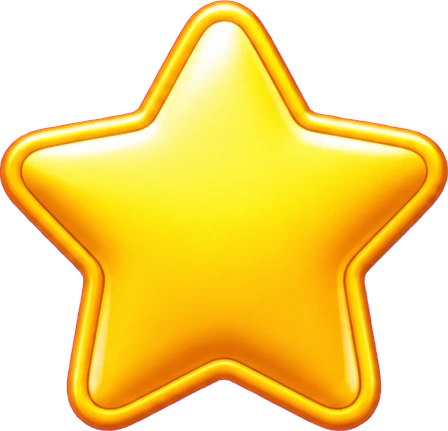
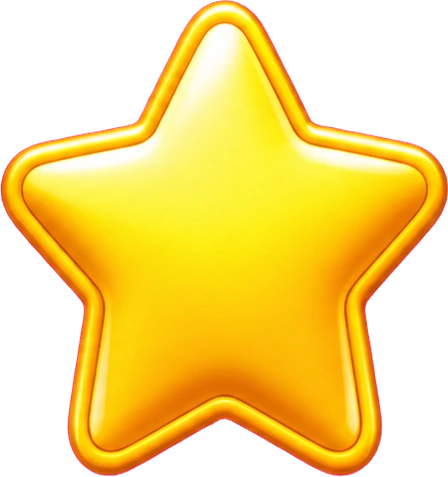
v3: take Codex's source-level fixes for the star and the chip bar
Codex redrew star-gold.webp to the socket's own proportions (448x477, h/w
1.0647, matching the socket's measured 1.065) instead of leaving the CSS
stretch as a permanent workaround. The trimmed canvas still carries zero
padding, so no CSS override is needed any more -- the star sizes from width
alone and lands concentric on its own. Verified against the real dev server
at 340px with production fonts loaded, not the isolated harness.

Also takes the corrected panel.webp: the purple LONGEST WORD chip keeps its
proper gradient (27.0 luminance points top-to-bottom) and the stray bar that
bled across the card frame above it in v4-2 is gone -- zero purple pixels in
that band now, at the source rather than patched around in code.

Both assets are re-encoded from the supplied lossless PNGs at the repo's
usual quality (92) rather than using the provided webp exports directly,
which were 927KB and 120KB -- panel.webp lands at 128KB, star-gold.webp at
30KB, both confirmed to still carry the fixes after the re-encode.

Also traced down and ruled out a second suspected defect: the LONGEST WORD
label looked like it was overflowing its pill in the isolated CSS harness,
but that harness substitutes system-ui for the game's actual Fredoka font as
a stand-in, and system-ui renders bold uppercase noticeably wider. Verified
against the real production build with real fonts loaded (text 71.6px in a
102px container, comfortable margin both sides) -- no overflow, no fix
[…]

diff --git a/app/v3/LevelCompletePanel.module.css b/app/v3/LevelCompletePanel.module.css
@@ -78,23 +78,13 @@
 /*
  * Measured from the empty sockets in panel.webp, not eyeballed: their outer boxes span
  * y 376-589 of 1521 (200x213), putting the row centre at 31.74% and the column centres
- * at 26.06 / 50.11 / 74.21%.
- *
- * The socket is NOT the same shape as star-gold.webp: the socket's own box is 200x213
- * (h/w 1.065, a taller star), while the star icon's trimmed canvas is 448x431 (h/w 0.962,
- * a wider one). Centering by the box alone cannot fix a proportion mismatch -- letting the
- * image keep its intrinsic ratio renders it about 10% short for its width, which is what
- * read as "not sitting right": thin rim on one side, thick on the other, not evenly short
- * all round. Height is set explicitly to the socket's own ratio (18.5% * 213/200,
- * expressed against panel height) rather than left to derive from the image, which
- * stretches the star ~10% taller to match. This is a stopgap for a source-asset mismatch;
- * see the Codex handoff for the real fix.
+ * at 26.06 / 50.11 / 74.21%. star-gold.webp was redrawn (v4-3) to the socket's own 213:200
+ * ratio, so it can size from width alone again -- no explicit height override needed.
  */
 .star {
   position: absolute;
   top: 31.74%;
   width: 18.5%;
-  height: 11.96%;
   transform: translate(-50%,-50%);
   pointer-events: none;
 }
